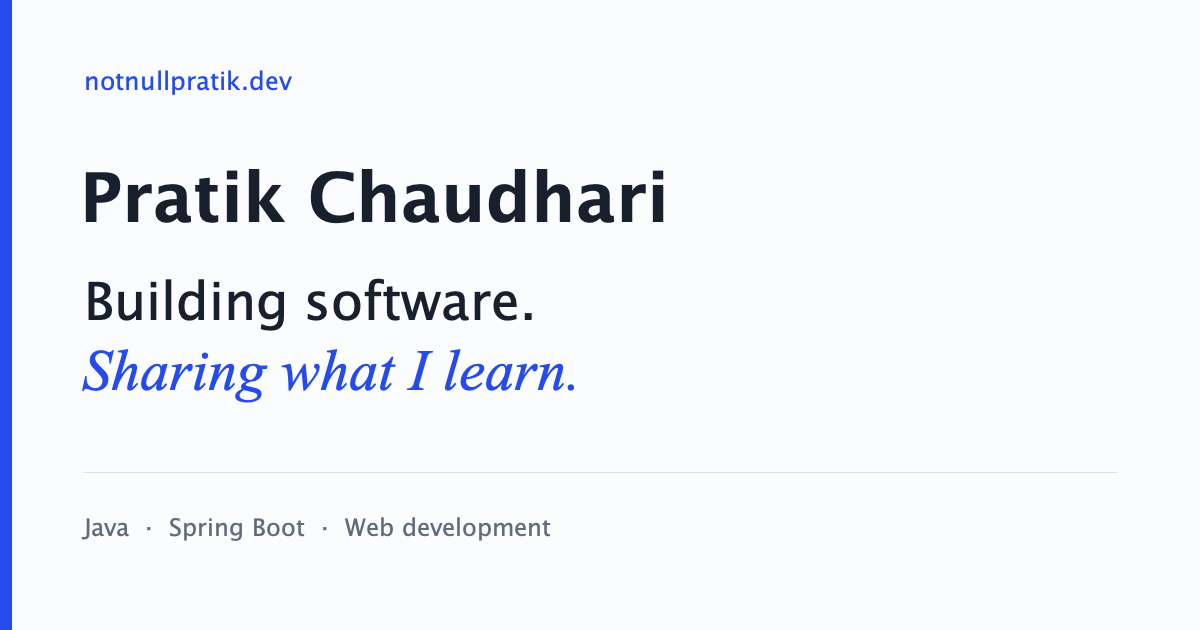
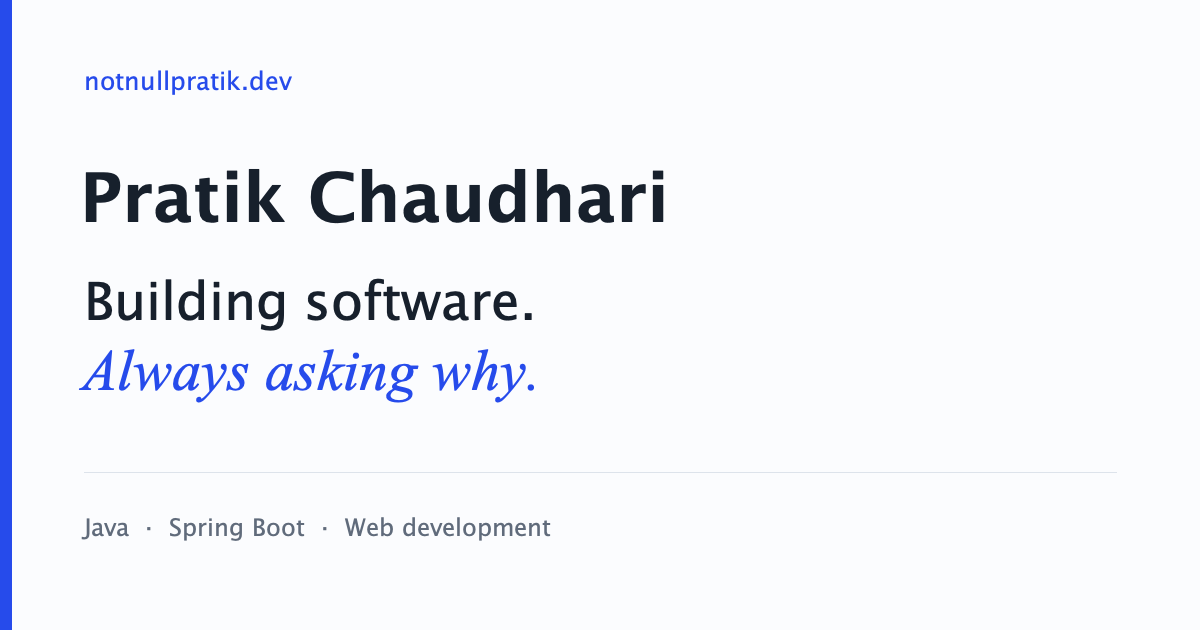
Update the social card so that it matches the site's copywriting

Changed region(s): [[0.0617, 0.5429, 0.4933, 0.6333]]

diff --git a/tools/GenerateSocialCard.java b/tools/GenerateSocialCard.java
@@ -29,7 +29,7 @@ class GenerateSocialCard {
         canvas.drawString("Building software.", 84, 320);
         canvas.setColor(new Color(0x264beb));
         canvas.setFont(new Font(Font.SERIF, Font.ITALIC, 58));
-        canvas.drawString("Sharing what I learn.", 82, 390);
+        canvas.drawString("Always asking why.", 82, 390);
         canvas.setColor(new Color(0xdde3eb));
         canvas.drawLine(84, 472, 1116, 472);
         canvas.setColor(new Color(0x606b7b));
